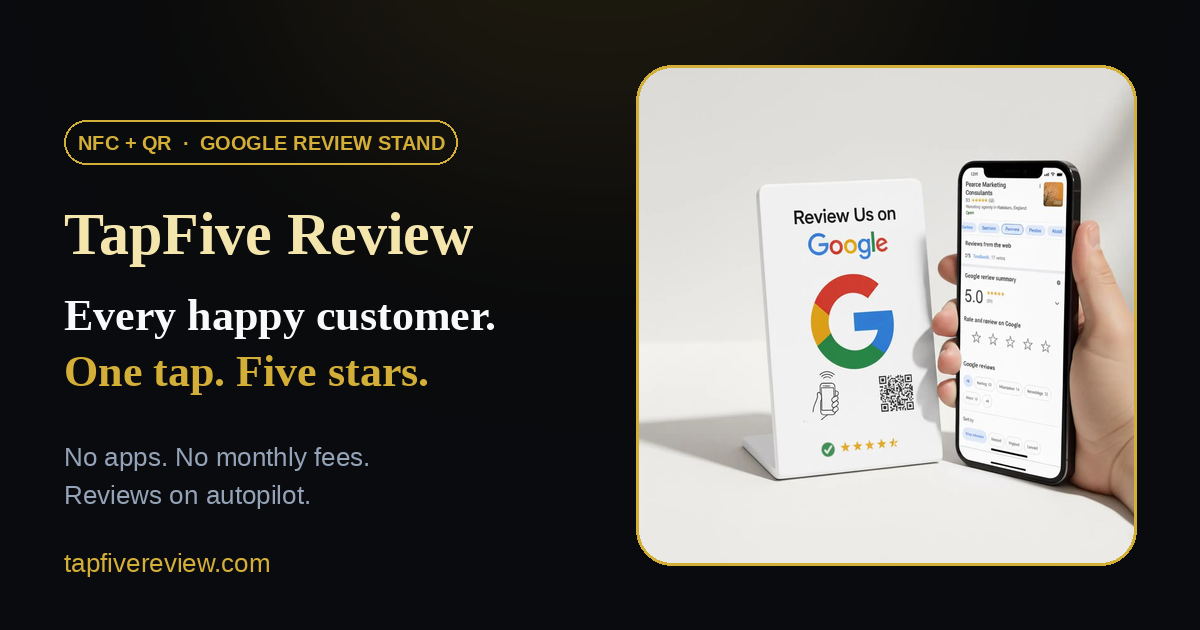
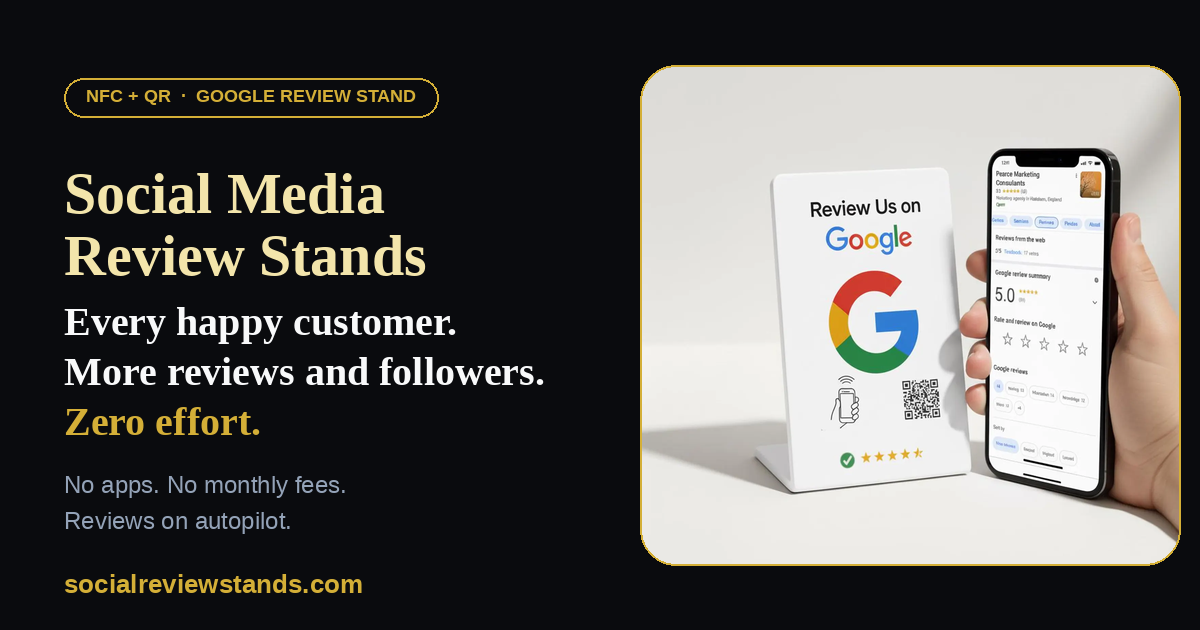
checkpoint before testing_agent_full_stack
Emergent-Commit-Key: aab159cece6f1956f4fd326552a4167df2a42d54867185e91a18fc78f0932d24

diff --git a/frontend/public/index.html b/frontend/public/index.html
@@ -4,29 +4,29 @@
         <meta charset="utf-8" />
         <meta name="viewport" content="width=device-width, initial-scale=1" />
         <meta name="theme-color" content="#0A0B0E" />
-        <title>TapFive Review — Google Review NFC Stand | One Tap. Five Stars.</title>
+        <title>Social Media Review Stands — Google Review NFC Stand | More Reviews and Followers. Zero Effort.</title>
         <meta name="description" content="Turn every happy customer into a 5-star Google review in 8 seconds. The NFC 215 review stand puts your Google review page one tap away on your counter — no apps, no searching, no monthly fees." />
         <meta name="keywords" content="Google review stand, NFC review card, Google reviews, NFC 215, QR review stand, tap to review, reputation management, local business reviews" />
         <meta name="robots" content="index, follow" />
-        <meta name="author" content="TapFive Review" />
-        <link rel="canonical" href="https://tapfivereview.com/" />
+        <meta name="author" content="Social Media Review Stands" />
+        <link rel="canonical" href="https://socialreviewstands.com/" />
         <link rel="icon" href="%PUBLIC_URL%/favicon.ico" sizes="any" />
         <link rel="icon" type="image/png" href="%PUBLIC_URL%/favicon.png" />
         <link rel="apple-touch-icon" href="%PUBLIC_URL%/apple-touch-icon.png" />
         <!-- Open Graph -->
         <meta property="og:type" content="website" />
-        <meta property="og:url" content="https://tapfivereview.com/" />
-        <meta property="og:site_name" content="TapFive Review" />
-        <meta property="og:title" content="TapFive Review — Every happy customer. One tap. Five stars." />
+        <meta property="og:url" content="https://socialreviewstands.com/" />
+        <meta property="og:site_name" content="Social Media Review Stands" />
+        <meta property="og:title" content="Social Media Review Stands — More Reviews and Followers. Zero Effort." />
         <meta property="og:description" content="The NFC + QR Google review stand that turns counter visits into 5-star reviews. 30-second setup, works on every phone, zero monthly fees." />
-        <meta property="og:image" content="https://tapfivereview.com/images/og-cover.png" />
+        <meta property="og:image" content="https://socialreviewstands.com/images/og-cover.png" />
         <meta property="og:image:width" content="1200" />
         <meta property="og:image:height" content="630" />
         <!-- Twitter / X -->
         <meta name="twitter:card" content="summary_large_image" />
-        <meta name="twitter:title" content="TapFive Review — Every happy customer. One tap. Five stars." />
+        <meta name="twitter:title" content="Social Media Review Stands — More Reviews and Followers. Zero Effort." />
         <meta name="twitter:description" content="The NFC + QR Google review stand that turns counter visits into 5-star reviews. 30-second setup, zero monthly fees." />
-        <meta name="twitter:image" content="https://tapfivereview.com/images/og-cover.png" />
+        <meta name="twitter:image" content="https://socialreviewstands.com/images/og-cover.png" />
         <link rel="preconnect" href="https://fonts.googleapis.com" />
         <link rel="preconnect" href="https://fonts.gstatic.com" crossorigin />
         <!--

diff --git a/frontend/src/pages/TermsPage.jsx b/frontend/src/pages/TermsPage.jsx
@@ -5,8 +5,8 @@ export default function TermsPage() {
     <LegalLayout eyebrow="Legal" title="Terms of Service" updated="September 12, 2026" testid="terms-page">
       <h2>1. The agreement</h2>
       <p>
-        These terms govern your use of tapfivereview.com and any purchase of the NFC 215 Google review stand
-        (the "Product") from TapFive Review ("we", "us", "our"). By using the site or placing an order, you agree
+        These terms govern your use of socialreviewstands.com and any purchase of the NFC 215 Google review stand
+        (the "Product") from Social Media Review Stands ("we", "us", "our"). By using the site or placing an order, you agree
         to these terms.
       </p>
 
@@ -35,7 +35,7 @@ export default function TermsPage() {
       <h2>5. 90-day money-back guarantee</h2>
       <p>
         If you're not satisfied within 90 days of delivery, contact us at
-        <a href="mailto:support@tapfivereview.com"> support@tapfivereview.com</a> to arrange a return for a full
+        <a href="mailto:support@socialreviewstands.com"> support@socialreviewstands.com</a> to arrange a return for a full
         refund of the purchase price. The Product must be returned in reasonable condition. Refunds are issued to
         the original payment method.
       </p>
@@ -50,8 +50,8 @@ export default function TermsPage() {
 
       <h2>7. Intellectual property</h2>
       <p>
-        The website's content, design, and branding belong to TapFive Review. "Google" and the Google logo are
-        trademarks of Google LLC; TapFive Review is not affiliated with, endorsed by, or sponsored by Google LLC.
+        The website's content, design, and branding belong to Social Media Review Stands. "Google" and the Google logo are
+        trademarks of Google LLC; Social Media Review Stands is not affiliated with, endorsed by, or sponsored by Google LLC.
       </p>
 
       <h2>8. Disclaimers &amp; liability</h2>
@@ -69,7 +69,7 @@ export default function TermsPage() {
 
       <h2>10. Contact</h2>
       <p>
-        Questions about these terms? Email <a href="mailto:support@tapfivereview.com">support@tapfivereview.com</a>.
+        Questions about these terms? Email <a href="mailto:support@socialreviewstands.com">support@socialreviewstands.com</a>.
       </p>
     </LegalLayout>
   );

diff --git a/frontend/src/components/landing/Footer.jsx b/frontend/src/components/landing/Footer.jsx
@@ -9,7 +9,7 @@ export default function Footer() {
             <span className="w-9 h-9 rounded-xl bg-gradient-to-br from-[#F3E5AB] via-[#D4AF37] to-[#996515] text-[#0A0B0E] flex items-center justify-center">
               <Nfc size={20} aria-hidden="true" />
             </span>
-            TapFive <span className="gold-text">Review</span>
+            Social Media <span className="gold-text">Review Stands</span>
           </div>
           <nav className="flex flex-wrap gap-x-8 gap-y-3">
             <a data-testid="footer-link-problem" href="#problem" className="text-sm text-[#94A3B8] hover:text-[#F3E5AB] transition-colors duration-200">The Problem</a>
@@ -23,9 +23,9 @@ export default function Footer() {
         </div>
         <div className="gold-divider mb-8" aria-hidden="true" />
         <p data-testid="footer-disclaimer" className="text-xs text-[#94A3B8]/70 leading-relaxed max-w-3xl mb-4">
-          Disclaimer: TapFive Review is not affiliated with, endorsed by, or sponsored by Google LLC. "Google" and the Google logo are registered trademarks of Google LLC. Our stands use standard NFC technology to open your publicly available review link.
+          Disclaimer: Social Media Review Stands is not affiliated with, endorsed by, or sponsored by Google LLC. "Google" and the Google logo are registered trademarks of Google LLC. Our stands use standard NFC technology to open your publicly available review link.
         </p>
-        <p className="text-xs text-[#94A3B8]/50">© 2026 TapFive Review · tapfivereview.com · Model 215 card · CE certified. All rights reserved.</p>
+        <p className="text-xs text-[#94A3B8]/50">© 2026 Social Media Review Stands · socialreviewstands.com · Model 215 card · CE certified. All rights reserved.</p>
       </div>
     </footer>
   );

diff --git a/frontend/src/pages/ThankYouPage.jsx b/frontend/src/pages/ThankYouPage.jsx
@@ -25,7 +25,7 @@ const STEPS = [
 const NOTES = [
   { icon: Truck, text: "Your receipt is on its way by email. Stands ship tracked — buyers report 7–9 day delivery." },
   { icon: RefreshCw, text: "Change your link anytime, free — the chip is rewritable in seconds." },
-  { icon: Mail, text: "Questions? Email support@tapfivereview.com and we'll get you set up personally." },
+  { icon: Mail, text: "Questions? Email support@socialreviewstands.com and we'll get you set up personally." },
 ];
 
 export default function ThankYouPage() {
@@ -69,7 +69,7 @@ export default function ThankYouPage() {
       </div>
 
       <div className="flex flex-wrap gap-4">
-        <a href="/" data-testid="thank-you-home-button" className="btn-gold">Back to TapFive Review</a>
+        <a href="/" data-testid="thank-you-home-button" className="btn-gold">Back to Social Media Review Stands</a>
         <a href="/#shop" data-testid="thank-you-shop-button" className="btn-ghost-gold">Add another stand</a>
       </div>
     </LegalLayout>

diff --git a/frontend/src/pages/PrivacyPage.jsx b/frontend/src/pages/PrivacyPage.jsx
@@ -5,7 +5,7 @@ export default function PrivacyPage() {
     <LegalLayout eyebrow="Legal" title="Privacy Policy" updated="September 12, 2026" testid="privacy-page">
       <h2>1. Who we are</h2>
       <p>
-        TapFive Review ("we", "us", "our") operates tapfivereview.com and sells the NFC 215 Google review stand.
+        Social Media Review Stands ("we", "us", "our") operates socialreviewstands.com and sells the NFC 215 Google review stand.
         This policy explains what information we collect when you use our website or buy from us, and how we use it.
       </p>
 
@@ -71,7 +71,7 @@ export default function PrivacyPage() {
 
       <h2>10. Contact</h2>
       <p>
-        Questions about this policy or your data? Email <a href="mailto:support@tapfivereview.com">support@tapfivereview.com</a>.
+        Questions about this policy or your data? Email <a href="mailto:support@socialreviewstands.com">support@socialreviewstands.com</a>.
       </p>
     </LegalLayout>
   );

diff --git a/frontend/src/components/landing/LegalLayout.jsx b/frontend/src/components/landing/LegalLayout.jsx
@@ -10,7 +10,7 @@ export default function LegalLayout({ eyebrow, title, updated, children, testid 
             <span className="w-9 h-9 rounded-xl bg-gradient-to-br from-[#F3E5AB] via-[#D4AF37] to-[#996515] text-[#0A0B0E] flex items-center justify-center">
               <Nfc size={20} aria-hidden="true" />
             </span>
-            TapFive <span className="gold-text">Review</span>
+            Social Media <span className="gold-text">Review Stands</span>
           </a>
           <a href="/" data-testid="legal-back-link" className="flex items-center gap-2 text-sm font-medium text-[#94A3B8] hover:text-[#F3E5AB] transition-colors duration-200">
             <ArrowLeft size={16} aria-hidden="true" /> Back to site

diff --git a/frontend/src/components/landing/Hero.jsx b/frontend/src/components/landing/Hero.jsx
@@ -40,7 +40,7 @@ export default function Hero() {
             NFC + QR · Google Review Stand · Model 215
           </motion.p>
           <h1 data-testid="hero-heading" className="font-display text-4xl sm:text-5xl lg:text-6xl font-bold tracking-tight leading-[1.08] mb-6 text-[#F8F9FA]">
-            {["Happy customers.", "One tap. Five stars."].map((line, i) => (
+            {["Happy customers.", "More reviews and followers.", "Zero effort."].map((line, i) => (
               <span key={line} className="block overflow-hidden pb-1">
                 <motion.span
                   className={`block ${i === 2 ? "gold-text" : ""}`}

diff --git a/frontend/src/components/landing/Navbar.jsx b/frontend/src/components/landing/Navbar.jsx
@@ -18,7 +18,7 @@ export default function Navbar() {
           <span className="w-9 h-9 rounded-xl bg-gradient-to-br from-[#F3E5AB] via-[#D4AF37] to-[#996515] text-[#0A0B0E] flex items-center justify-center shadow-[0_4px_16px_rgba(212,175,55,0.4)]">
             <Nfc size={20} aria-hidden="true" />
           </span>
-          TapFive <span className="gold-text">Review</span>
+          Social Media <span className="gold-text">Review Stands</span>
         </a>
         <div className="hidden md:flex items-center gap-7">
           {LINKS.map((l) => (

diff --git a/README.md b/README.md
@@ -1,6 +1,6 @@
-# TapFive Review — Google NFC Review Stand Landing Page
+# Social Media Review Stands — Google NFC Review Stand Landing Page
 
-A premium single-page marketing site for the **NFC 215 Google Review Stand** — a programmable NFC + QR countertop stand that sends customers straight to a business's Google review page in one tap. Live at [tapfivereview.com](https://tapfivereview.com).
+A premium single-page marketing site for the **NFC 215 Google Review Stand** — a programmable NFC + QR countertop stand that sends customers straight to a business's Google review page in one tap. Live at [socialreviewstands.com](https://socialreviewstands.com).
 
 Black-metallic + gold "luxe" theme, sales copy structured as Problem → Solution → Offer.
 
